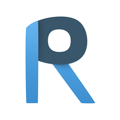
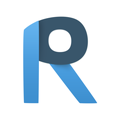
新的图标，新的反馈页

diff --git a/app/lib/config.rb b/app/lib/config.rb
@@ -1,8 +1,13 @@
 module Config
 
-  APP_DAILY_SOURCE_LIST_URL = "https://coding.net/u/shiweifu/p/OneReadRouter/git/raw/master/list"
-  APP_DAILY_SOURCE_BASE_URL = "https://coding.net/u/shiweifu/p/OneReadRouter/git/raw/master/"
-  APP_RSS_SOURCE_LIST_URL   = "https://coding.net/u/shiweifu/p/OneReadRouter/git/raw/master/rss_list"
+  APP_DAILY_SOURCE_LIST_URL    = "https://coding.net/u/shiweifu/p/OneReadRouter/git/raw/master/list"
+  APP_DAILY_SOURCE_BASE_URL    = "https://coding.net/u/shiweifu/p/OneReadRouter/git/raw/master/"
+  APP_RSS_SOURCE_LIST_URL      = "https://coding.net/u/shiweifu/p/OneReadRouter/git/raw/master/rss_list"
+  APP_TEN_READ_SOURCE_LIST_URL = "https://coding.net/u/shiweifu/p/OneReadRouter/git/raw/master/ten_read_list"
+
+  APP_URL              = "http://itunes.apple.com/app/id1032943622"
+  APP_REVIEW_URL       = "itms-apps://itunes.apple.com/WebObjects/MZStore.woa/wa/viewContentsUserReviews?type=Purple+Software&id=1032943622"
+
 
   def Config.menu_items
     daily_list    = Common::object_from_cache(:daily_list)    || []
@@ -11,20 +16,17 @@ module Config
 
     daily_list    = [].concat daily_list
     rss_list      = [].concat rss_list
-    ten_read_list = [].concat rss_list
-
+    ten_read_list = [].concat ten_read_list
 
     if daily_list.empty? and rss_list.empty? and rss_list.empty?
       daily_list << {url: 'https://coding.net/u/shiweifu/p/OneReadRouter/git/raw/master/zhihu.r', name: '知乎日报'}
       daily_list << {url: 'https://coding.net/u/shiweifu/p/OneReadRouter/git/raw/master/sf.r', name: 'SegmentFault'}
-      daily_list << {url: 'https://coding.net/u/shiweifu/p/OneReadRouter/git/raw/master/mono.r', name: 'Mono'}
-      daily_list << {url: 'https://coding.net/u/shiweifu/p/OneReadRouter/git/raw/master/dgtle.r', name: '数字尾巴'}
 
       rss_list   << {name: "槽边往事", url:  'http://rss.catcoder.com/rss/26-b1a7b2a5407db7e0fa98f8c6e12f92a4594'}
       rss_list   << {name: "MacTalk", url: 'http://rss.catcoder.com/rss/1-b1a7b2a5407db7e0fa98f8c6e12f92a4594'}
 
       ten_read_list << {base_url: 'http://www.jianshu.com',   url: 'http://www.jianshu.com/trending/now', selector: 'h4>a',     name: '简书'}
-      ten_read_list << {base_url: 'http://news.dbanotes.net', url: 'http://news.dbanotes.net',            selector: '.title>a', name: 'startup news'}
+      ten_read_list << {base_url: 'http://news.dbanotes.net', url: 'http://news.dbanotes.net',            selector: '.title>a', name: 'Startup News'}
     end
 
     daily_list = daily_list.map { |m|

diff --git a/app/controller/setting_controller.rb b/app/controller/setting_controller.rb
@@ -1,6 +1,7 @@
 class SettingController < UITableViewController
 
   include Router
+  include Common
 
   def viewDidLoad
     @titles = [['关于', '分享给朋友', '去AppStore打分'], ['反馈']]
@@ -49,18 +50,17 @@ class SettingController < UITableViewController
 
   def tableView(tableView, didSelectRowAtIndexPath:indexPath)
 
+    tableView.deselectRowAtIndexPath(indexPath, animated:true)
+
     if indexPath.section == 1 && indexPath.row == 0
       # 反馈
-      controller = MFMailComposeViewController.alloc.init
-      controller.mailComposeDelegate = self
-      subject = NSString.stringWithFormat("关于「一读」的反馈")
-      controller.setSubject(subject)
-      controller.setToRecipients(["shiweifu@gmail.com"])
-      controller.setMessageBody(feedback_info, isHTML:false)
-      if (controller)
-        self.presentViewController(controller, animated:true, completion:nil)
-      end
-
+      feedbackViewController = LCUserFeedbackViewController.alloc.init
+      feedbackViewController.feedbackTitle = nil
+      feedbackViewController.contact = nil
+      feedbackViewController.contactHeaderHidden = true
+      feedbackViewController.presented = true
+      feedbackViewController.navigationBarStyle = LCUserFeedbackNavigationBarStyleNone
+      present_controller feedbackViewController
     elsif indexPath.section == 0 && indexPath.row == 0
       # 关于
       controller = find_router("/about", {"title" => "关于"})

diff --git a/app/controller/list_controller.rb b/app/controller/list_controller.rb
@@ -114,6 +114,8 @@ class ListController < UITableViewController
   def tableView(tv, didSelectRowAtIndexPath: indexPath)
     p "didSelect"
 
+    tv.deselectRowAtIndexPath(indexPath, animated:true)
+
     it = @ds.itemAtIndexPath(indexPath)
     p "-----it", it
 
